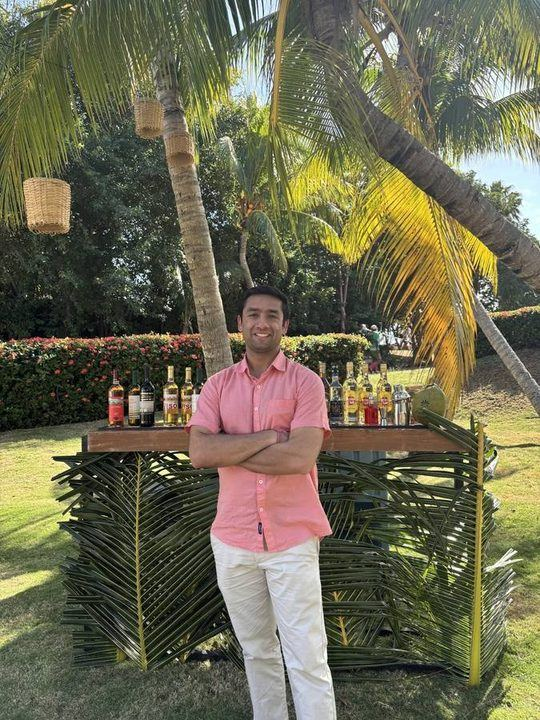
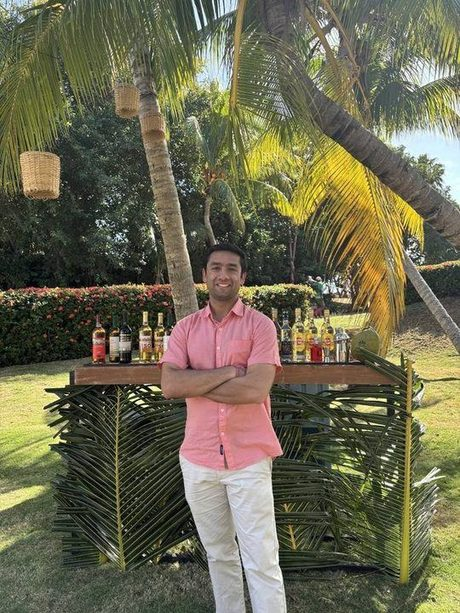
Stage 1: Lenis smooth scroll + vanilla parallax driver
- Self-hosted Lenis 1.1.18 (autoRaf) for buttery wheel/anchor/stage scrolling
- Tiny vanilla parallax driver: pure function of live scrollY per frame,
  caches no measurements, self-heals (no ScrollTrigger desync class)
- Hero copy drift/fade, visual counter-drift, ambient dissolve,
  service image drift, footer wordmark rise
- Service images wrapped in .service-media clipping containers; hover zoom
  via independent scale property so it composes with parallax transform
- Workshop stage buttons glide through Lenis via window.__wlScrollTo
- Menu open stops Lenis (scroll lock), link select/Escape resumes it
- Reduced-motion and no-JS fallbacks preserved

diff --git a/work/case-study-02.html b/work/case-study-02.html
@@ -38,43 +38,54 @@
   <main id="main">
     <section class="case-hero on-dark" aria-labelledby="case-title">
       <div class="wrap">
+        <nav class="case-crumb" aria-label="Breadcrumb">
+          <a href="../index.html#work">Work</a>
+          <span aria-hidden="true">/</span>
+          <span aria-current="page">Draft format</span>
+        </nav>
         <div class="draft-banner" role="note">
           <strong>Draft — not a published client project.</strong>
           This page shows the case-study format only. It goes live with real client work, names, and results — with the client's permission.
         </div>
-        <p class="hero-eyebrow">Case study 02 · Draft</p>
-        <h1 id="case-title">Awaiting second published case study.</h1>
-        <p class="section-lede">Every Webloped case study documents the same five facts: client, sector, problem, scope, and outcome — measured results only, never invented.</p>
+        <div class="section-head">
+          <p class="eyebrow">Case study · Draft format</p>
+          <h1 id="case-title">Awaiting first published case study.</h1>
+          <p class="section-lede">Every Webloped case study documents the same five facts: client, sector, problem, scope, and outcome — measured results only, never invented.</p>
+        </div>
       </div>
     </section>
 
-    <section class="section case-body" aria-labelledby="case-body-title">
+    <section class="section case-body" aria-label="Case study details">
       <div class="wrap">
-        <h2 id="case-body-title" class="sr-only" style="position:absolute;width:1px;height:1px;overflow:hidden;clip:rect(0 0 0 0)">Case study details</h2>
         <div class="case-grid">
           <div class="case-facts">
-            <div class="case-fact">
+            <div class="case-fact is-pending">
+              <span class="fact-n" aria-hidden="true">01</span>
               <h2>Client</h2>
-              <p class="pending">To be confirmed — published only with permission.</p>
+              <p>To be confirmed — published only with permission.</p>
             </div>
-            <div class="case-fact">
+            <div class="case-fact is-pending">
+              <span class="fact-n" aria-hidden="true">02</span>
               <h2>Sector</h2>
-              <p class="pending">Pending.</p>
+              <p>Pending.</p>
             </div>
-            <div class="case-fact">
+            <div class="case-fact is-pending">
+              <span class="fact-n" aria-hidden="true">03</span>
               <h2>Problem</h2>
-              <p class="pending">What the business needed, in their words — added once the project exists.</p>
+              <p>What the business needed, in their words — added once the project exists.</p>
             </div>
-            <div class="case-fact">
+            <div class="case-fact is-pending">
+              <span class="fact-n" aria-hidden="true">04</span>
               <h2>Scope</h2>
-              <p class="pending">What Webloped designed and built — pages, integrations, automations.</p>
+              <p>What Webloped designed and built — pages, integrations, automations.</p>
             </div>
-            <div class="case-fact">
+            <div class="case-fact is-pending">
+              <span class="fact-n" aria-hidden="true">05</span>
               <h2>Outcome</h2>
-              <p class="pending">Measured results only — published after launch, with evidence, or left out.</p>
+              <p>Measured results only — published after launch, with evidence, or left out.</p>
             </div>
           </div>
-          <div class="case-visual" role="img" aria-label="Placeholder: project screenshots will appear here once a real case study is published">
+          <div class="work-visual placeholder" role="img" aria-label="Placeholder: project screenshots will appear here once a real case study is published">
             <div>
               <span class="placeholder-tag">Concept placeholder</span>
               <p>Desktop and mobile captures replace this panel once a real project is published, with the client's permission.</p>
@@ -83,9 +94,18 @@
         </div>
 
         <nav class="case-nav" aria-label="Case studies">
-          <a href="../index.html#work">← Back to selected work</a>
-          <a href="case-study-01.html">← Previous case study</a>
+          <a href="../index.html#work"><span aria-hidden="true">←</span> Back to selected work</a>
+          <a href="case-study-01.html"><span aria-hidden="true">←</span> Previous case study</a>
         </nav>
+      </div>
+    </section>
+
+    <section class="cta-band on-dark" aria-labelledby="cta-title">
+      <div class="wrap cta-inner">
+        <p class="eyebrow">Ready when you are</p>
+        <h2 id="cta-title">Your project could be <span class="grad-text">case study 03.</span></h2>
+        <p class="cta-sub">Tell us about your project — we'll reply with next steps and a fixed quote in CAD.</p>
+        <a class="btn btn-primary btn-lg" href="../index.html#contact">Get a project quote <span class="arrow" aria-hidden="true">→</span></a>
       </div>
     </section>
   </main>

diff --git a/work/case-study-01.html b/work/case-study-01.html
@@ -38,43 +38,54 @@
   <main id="main">
     <section class="case-hero on-dark" aria-labelledby="case-title">
       <div class="wrap">
+        <nav class="case-crumb" aria-label="Breadcrumb">
+          <a href="../index.html#work">Work</a>
+          <span aria-hidden="true">/</span>
+          <span aria-current="page">Draft format</span>
+        </nav>
         <div class="draft-banner" role="note">
           <strong>Draft — not a published client project.</strong>
           This page shows the case-study format only. It goes live with real client work, names, and results — with the client's permission.
         </div>
-        <p class="hero-eyebrow">Case study 01 · Draft</p>
-        <h1 id="case-title">Awaiting first published case study.</h1>
-        <p class="section-lede">Every Webloped case study documents the same five facts: client, sector, problem, scope, and outcome — measured results only, never invented.</p>
+        <div class="section-head">
+          <p class="eyebrow">Case study · Draft format</p>
+          <h1 id="case-title">Awaiting first published case study.</h1>
+          <p class="section-lede">Every Webloped case study documents the same five facts: client, sector, problem, scope, and outcome — measured results only, never invented.</p>
+        </div>
       </div>
     </section>
 
-    <section class="section case-body" aria-labelledby="case-body-title">
+    <section class="section case-body" aria-label="Case study details">
       <div class="wrap">
-        <h2 id="case-body-title" class="sr-only" style="position:absolute;width:1px;height:1px;overflow:hidden;clip:rect(0 0 0 0)">Case study details</h2>
         <div class="case-grid">
           <div class="case-facts">
-            <div class="case-fact">
+            <div class="case-fact is-pending">
+              <span class="fact-n" aria-hidden="true">01</span>
               <h2>Client</h2>
-              <p class="pending">To be confirmed — published only with permission.</p>
+              <p>To be confirmed — published only with permission.</p>
             </div>
-            <div class="case-fact">
+            <div class="case-fact is-pending">
+              <span class="fact-n" aria-hidden="true">02</span>
               <h2>Sector</h2>
-              <p class="pending">Pending.</p>
+              <p>Pending.</p>
             </div>
-            <div class="case-fact">
+            <div class="case-fact is-pending">
+              <span class="fact-n" aria-hidden="true">03</span>
               <h2>Problem</h2>
-              <p class="pending">What the business needed, in their words — added once the project exists.</p>
+              <p>What the business needed, in their words — added once the project exists.</p>
             </div>
-            <div class="case-fact">
+            <div class="case-fact is-pending">
+              <span class="fact-n" aria-hidden="true">04</span>
               <h2>Scope</h2>
-              <p class="pending">What Webloped designed and built — pages, integrations, automations.</p>
+              <p>What Webloped designed and built — pages, integrations, automations.</p>
             </div>
-            <div class="case-fact">
+            <div class="case-fact is-pending">
+              <span class="fact-n" aria-hidden="true">05</span>
               <h2>Outcome</h2>
-              <p class="pending">Measured results only — published after launch, with evidence, or left out.</p>
+              <p>Measured results only — published after launch, with evidence, or left out.</p>
             </div>
           </div>
-          <div class="case-visual" role="img" aria-label="Placeholder: project screenshots will appear here once a real case study is published">
+          <div class="work-visual placeholder" role="img" aria-label="Placeholder: project screenshots will appear here once a real case study is published">
             <div>
               <span class="placeholder-tag">Concept placeholder</span>
               <p>Desktop and mobile captures replace this panel once a real project is published, with the client's permission.</p>
@@ -83,9 +94,18 @@
         </div>
 
         <nav class="case-nav" aria-label="Case studies">
-          <a href="../index.html#work">← Back to selected work</a>
-          <a href="case-study-02.html">Next case study →</a>
+          <a href="../index.html#work"><span aria-hidden="true">←</span> Back to selected work</a>
+          <a href="case-study-02.html">Next case study <span aria-hidden="true">→</span></a>
         </nav>
+      </div>
+    </section>
+
+    <section class="cta-band on-dark" aria-labelledby="cta-title">
+      <div class="wrap cta-inner">
+        <p class="eyebrow">Ready when you are</p>
+        <h2 id="cta-title">Your project could be <span class="grad-text">case study 03.</span></h2>
+        <p class="cta-sub">Tell us about your project — we'll reply with next steps and a fixed quote in CAD.</p>
+        <a class="btn btn-primary btn-lg" href="../index.html#contact">Get a project quote <span class="arrow" aria-hidden="true">→</span></a>
       </div>
     </section>
   </main>

diff --git a/css/style.css b/css/style.css
@@ -1200,3 +1200,76 @@ a.contact-row:hover .value, a.contact-row:focus-visible .value { translate: 4px 
   .js .section-head.rv > * { opacity: 1; translate: none; transition: none; }
   .faq-list details .faq-a { transition: none; }
 }
+
+/* ================= Stage 4 — Fine detail + performance =================
+   Case-study pages elevated to the homepage standard, selection styling,
+   404 page, and the placeholder sheen generalized to any revealed ancestor. */
+
+/* --- case hero: ambient glow, breadcrumb --- */
+.case-hero { position: relative; overflow: hidden; }
+.case-hero::before {
+  content: ""; position: absolute; inset: 0; pointer-events: none;
+  background:
+    radial-gradient(720px 420px at 12% 0%, rgba(109, 56, 232, 0.22), transparent 60%),
+    radial-gradient(560px 380px at 88% 20%, rgba(200, 181, 255, 0.12), transparent 60%);
+}
+.case-hero .wrap { position: relative; }
+.case-crumb { display: flex; align-items: center; gap: 10px; font-size: 14px; margin-bottom: 32px; color: var(--muted-dark); }
+.case-crumb a { color: var(--lilac); text-decoration: none; font-weight: 600; }
+.case-crumb a:hover { text-decoration: underline; }
+.case-crumb [aria-current] { color: var(--muted-dark); }
+.case-hero .section-head { max-width: 920px; }
+.case-hero .eyebrow { color: var(--lilac); }
+.case-hero .eyebrow::before { background: var(--lilac); }
+.case-hero h1 { color: #fff; }
+.case-hero .section-lede { color: var(--muted-dark); }
+
+/* --- fact cards --- */
+.case-facts { display: grid; gap: 16px; align-content: start; }
+.case-fact {
+  position: relative; border: 1px solid var(--line-light); border-radius: 16px;
+  background: var(--white); padding: 24px 24px 24px 76px;
+  transition: transform 260ms ease, box-shadow 300ms ease, border-color 300ms ease;
+}
+.case-fact:hover { transform: translateY(-4px); box-shadow: var(--shadow-card); border-color: rgba(109, 56, 232, 0.35); }
+.case-fact .fact-n {
+  position: absolute; left: 26px; top: 28px;
+  font-family: var(--font-display); font-weight: 700; font-size: 15px; color: var(--violet);
+}
+.case-fact h2 { font-size: 1.05rem; margin: 0 0 6px; }
+.case-fact p { margin: 0; color: var(--muted-light); font-size: 16.5px; }
+.case-fact.is-pending { border-style: dashed; background: transparent; }
+.case-fact.is-pending:hover { border-color: rgba(109, 56, 232, 0.5); }
+.case-fact.is-pending p { font-style: italic; }
+
+/* --- case nav arrow nudge --- */
+.case-nav a span[aria-hidden] { display: inline-block; transition: translate 250ms ease; }
+.case-nav a:first-child:hover span[aria-hidden] { translate: -4px 0; }
+.case-nav a:last-child:hover span[aria-hidden] { translate: 4px 0; }
+
+/* --- text selection --- */
+::selection { background: var(--violet); color: #fff; }
+
+/* --- 404 --- */
+.not-found { min-height: 72vh; display: flex; align-items: center; background: var(--ink); color: #fff; position: relative; overflow: hidden; }
+.not-found::before {
+  content: ""; position: absolute; inset: 0; pointer-events: none;
+  background: radial-gradient(680px 400px at 50% 30%, rgba(109, 56, 232, 0.22), transparent 65%);
+}
+.not-found .wrap { position: relative; text-align: center; max-width: 640px; }
+.not-found .eyebrow { justify-content: center; }
+.not-found .eyebrow::before { display: none; }
+.not-found h1 { font-size: clamp(3rem, 9vw, 5.5rem); letter-spacing: -0.03em; margin: 0 0 16px; }
+.not-found h1 .grad-text { display: inline-block; white-space: nowrap; }
+.not-found p { color: var(--muted-dark); font-size: 18px; margin: 0 0 32px; }
+
+/* --- sheen generalized: any revealed placeholder, homepage or case pages --- */
+@media (prefers-reduced-motion: no-preference) {
+  .js .in.work-visual.placeholder::after,
+  .js .in .work-visual.placeholder::after {
+    content: ""; position: absolute; inset: -20%; pointer-events: none;
+    background: linear-gradient(105deg, transparent 42%, rgba(200, 181, 255, 0.16) 50%, transparent 58%);
+    transform: translateX(-60%);
+    animation: sheenSweep 1.6s cubic-bezier(0.4, 0, 0.2, 1) 0.35s 1 both;
+  }
+}

diff --git a/404.html b/404.html
@@ -1,0 +1,60 @@
+<!DOCTYPE html>
+<html lang="en">
+<head>
+  <meta charset="UTF-8">
+  <meta name="viewport" content="width=device-width, initial-scale=1.0">
+  <meta name="robots" content="noindex">
+  <title>Page not found | Webloped</title>
+  <meta name="description" content="This page doesn't exist — but your next website does. Head back to Webloped.">
+  <meta name="theme-color" content="#101014">
+  <link rel="icon" href="assets/img/logo.png">
+  <link rel="preconnect" href="https://fonts.googleapis.com">
+  <link rel="preconnect" href="https://fonts.gstatic.com" crossorigin>
+  <link href="https://fonts.googleapis.com/css2?family=Inter:wght@400;500;600;700&family=Space+Grotesk:wght@500;600;700&display=swap" rel="stylesheet">
+  <link rel="stylesheet" href="css/style.css">
+</head>
+<body>
+  <a class="skip-link" href="#main">Skip to content</a>
+
+  <header class="site-header on-dark">
+    <div class="wrap header-inner">
+      <a class="brand" href="index.html" aria-label="Webloped — home">
+        <img src="assets/img/logo-w.png" alt="" width="40" height="40">
+        <span class="brand-name">Webloped</span>
+      </a>
+      <a class="btn btn-primary header-cta" href="index.html#contact">Get a project quote</a>
+    </div>
+  </header>
+
+  <main id="main">
+    <section class="not-found on-dark" aria-labelledby="nf-title">
+      <div class="wrap">
+        <p class="eyebrow">404 — Page not found</p>
+        <h1 id="nf-title">This page<br><span class="grad-text">doesn't exist.</span></h1>
+        <p>The link may be broken, or the page may have moved. Your next website, on the other hand, is very much real.</p>
+        <a class="btn btn-primary btn-lg" href="index.html">Back to the homepage <span class="arrow" aria-hidden="true">→</span></a>
+      </div>
+    </section>
+  </main>
+
+  <footer class="site-footer on-dark">
+    <div class="wrap">
+      <div class="footer-grid">
+        <div class="footer-brand">
+          <img src="assets/img/logo-w.png" alt="" width="44" height="44">
+          <p>Web design &amp; AI automation.<br>Cambridge, Ontario, Canada.</p>
+        </div>
+        <div class="footer-contact">
+          <a href="mailto:contact@webloped.ca">contact@webloped.ca</a>
+          <a href="tel:+16476947001">+1 (647) 694-7001</a>
+          <a href="index.html#contact">Get a project quote</a>
+        </div>
+      </div>
+      <div class="footer-base">
+        <span>© 2026 Webloped. All rights reserved.</span>
+        <span>Design preview — not the live site.</span>
+      </div>
+    </div>
+  </footer>
+</body>
+</html>

diff --git a/js/main.js b/js/main.js
@@ -249,7 +249,8 @@
   // Scroll reveals for section content (the workshop drives its own animation).
   if (!reducedMotion && "IntersectionObserver" in window) {
     var SELECTORS = ".section-head, .work-block, .service-group, .service-strip," +
-      " .process-step, .person, .invest-card, .faq-list details, .contact-grid > *";
+      " .process-step, .person, .invest-card, .faq-list details, .contact-grid > *," +
+      " .case-fact, .case-body .work-visual";
     var els = Array.prototype.filter.call(
       document.querySelectorAll(SELECTORS),
       function (el) { return !el.closest("#workshop"); }
